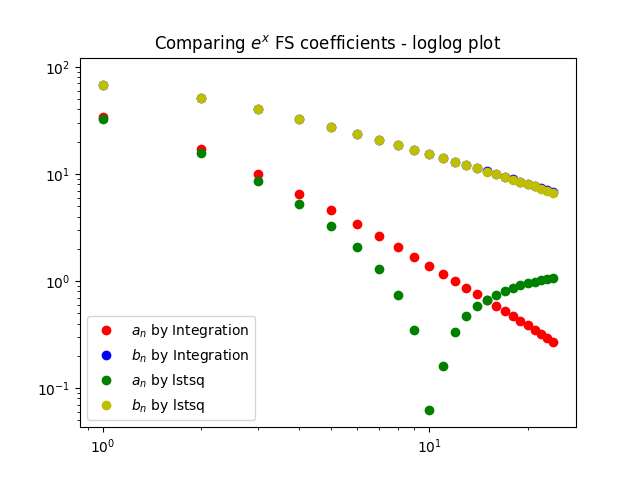
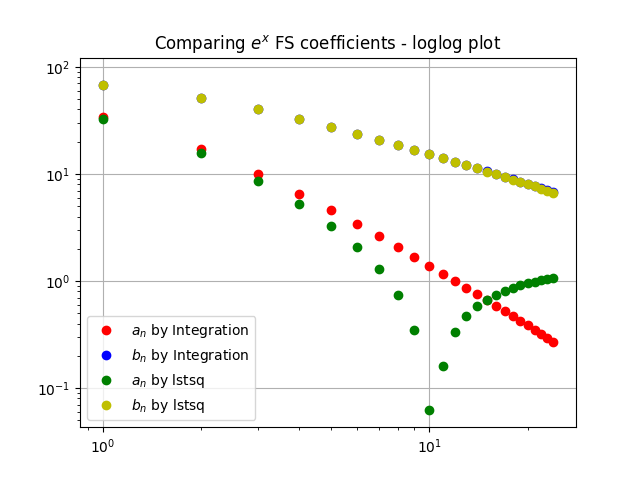
updated

diff --git a/Week 4/code.py b/Week 4/code.py
@@ -47,8 +47,8 @@ plt.plot(x, coscosxFunc(x%(2*PI)), '--', label='Fourier Series expansion')
 plt.axis([-6, 10, 0.5, 1.05])
 plt.legend(loc='upper right')
 plt.title('$cos(cos(x))$')
+plt.grid()
 plt.savefig(plotsDir+'Figure 1.png')
-#plt.show(block=False)
 
 plt.figure('Figure 2')
 ax2 = plt.axes()
@@ -57,8 +57,8 @@ plt.semilogy(x, expFunc(x), 'k', label='True Function')
 plt.semilogy(x, expFunc(x%(2*PI)), '--', label='Fourier Series expansion')
 plt.legend(loc='upper left')
 plt.title('$e^x$')
+plt.grid()
 plt.savefig(plotsDir+'Figure 2.png')
-#plt.show(block=False)
 
 def cosCoeff(x, k, f):
     return f(x)*np.cos(k*x)
@@ -93,8 +93,8 @@ plt.semilogy(abs(coeffCosCos[1::2]), 'bo', label='$a_n$')
 plt.semilogy(abs(coeffCosCos[2::2]), 'yo', label='$b_n$')
 plt.legend()
 plt.title('$cos(cos(x))$ semilog plot')
+plt.grid()
 plt.savefig(plotsDir+'Figure 3.png')
-#plt.show(block=False)
 
 plt.figure('Figure 4')
 plt.xticks(np.arange(51), xTicksForCoeffsSemilog, rotation=60)
@@ -103,24 +103,24 @@ plt.semilogy(abs(coeffExp[1::2]), 'bo', label='$a_n$')
 plt.semilogy(abs(coeffExp[2::2]), 'yo', label='$b_n$')
 plt.legend()
 plt.title('$e^x$ semilog plot')
+plt.grid()
 plt.savefig(plotsDir+'Figure 4.png')
-#plt.show(block=False)
 
 plt.figure('Figure 5')
 plt.loglog(abs(coeffCosCos[1::2]), 'bo', label='$a_n$')
 plt.loglog(abs(coeffCosCos[2::2]), 'yo', label='$b_n$')
 plt.legend()
 plt.title('$cos(cos(x))$ loglog plot')
+plt.grid()
 plt.savefig(plotsDir+'Figure 5.png')
-#plt.show(block=False)
 
 plt.figure('Figure 6')
 plt.loglog(abs(coeffExp[1::2]), 'bo', label='$a_n$')
 plt.loglog(abs(coeffExp[2::2]), 'yo', label='$b_n$')
 plt.legend()
 plt.title('$e^x$ loglog plot')
+plt.grid()
 plt.savefig(plotsDir+'Figure 6.png')
-#plt.show(block=False)
 
 def findLSTSQCoeff(f):
     x = np.linspace(0, 2*PI, 401)
@@ -143,8 +143,8 @@ plt.semilogy(abs(lstsqCosCos[1::2]), 'go', label='$a_n$ by lstsq')
 plt.semilogy(abs(lstsqCosCos[2::2]), 'yo', label='$b_n$ by lstsq')
 plt.title('Comparing $cos(cos(x))$ FS coefficients - semilogy plot')
 plt.legend()
+plt.grid()
 plt.savefig(plotsDir+'Figure 3.1.png')
-#plt.show(block=False)
 
 plt.figure('Figure 4.1')
 plt.semilogy(abs(coeffExp[1::2]), 'ro', label='$a_n$ by Integration')
@@ -153,8 +153,8 @@ plt.semilogy(abs(lstsqExp[1::2]), 'go', label='$a_n$ by lstsq')
 plt.semilogy(abs(lstsqExp[2::2]), 'yo', label='$b_n$ by lstsq')
 plt.title('Comparing $e^x$ FS coefficients - semilogy plot')
 plt.legend()
+plt.grid()
 plt.savefig(plotsDir+'Figure 4.1.png')
-#plt.show(block=False)
 
 plt.figure('Figure 5.1')
 plt.loglog(abs(coeffCosCos[1::2]), 'ro', label='$a_n$ by Integration')
@@ -163,8 +163,8 @@ plt.loglog(abs(lstsqCosCos[1::2]), 'go', label='$a_n$ by lstsq')
 plt.loglog(abs(lstsqCosCos[2::2]), 'yo', label='$b_n$ by lstsq')
 plt.title('Comparing $cos(cos(x))$ FS coefficients - loglog plot')
 plt.legend()
+plt.grid()
 plt.savefig(plotsDir+'Figure 5.1.png')
-#plt.show(block=False)
 
 plt.figure('Figure 6.1')
 plt.loglog(abs(coeffExp[1::2]), 'ro', label='$a_n$ by Integration')
@@ -173,8 +173,8 @@ plt.loglog(abs(lstsqExp[1::2]), 'go', label='$a_n$ by lstsq')
 plt.loglog(abs(lstsqExp[2::2]), 'yo', label='$b_n$ by lstsq')
 plt.title('Comparing $e^x$ FS coefficients - loglog plot')
 plt.legend()
+plt.grid()
 plt.savefig(plotsDir+'Figure 6.1.png')
-#plt.show(block=False)
 
 absErrorsCosCos = [abs(coeffCosCos[i]-lstsqCosCos[i]) for i in range(len(coeffCosCos))]
 absErrorsExp = [abs(coeffExp[i]-lstsqExp[i]) for i in range(len(coeffExp))]
@@ -198,8 +198,8 @@ plt.plot(xNew, matrixA@coeffCosCos, 'go', label='Integration')
 plt.plot(xNew, matrixA@lstsqCosCos, 'r', label='lstsq')
 plt.title('Reconstruction of $cos(cos(x))$')
 plt.legend()
+plt.grid()
 plt.savefig(plotsDir+'Figure 7.png')
-#plt.show(block=False)
 
 plt.figure('Figure 8')
 ax4 = plt.axes()
@@ -208,5 +208,5 @@ plt.plot(xNew, matrixA@coeffExp, 'go', label='Integration')
 plt.plot(xNew, matrixA@lstsqExp, 'r', label='lstsq')
 plt.title('Reconstruction of $e^x$')
 plt.legend()
+plt.grid()
 plt.savefig(plotsDir+'Figure 8.png')
-#plt.show()
